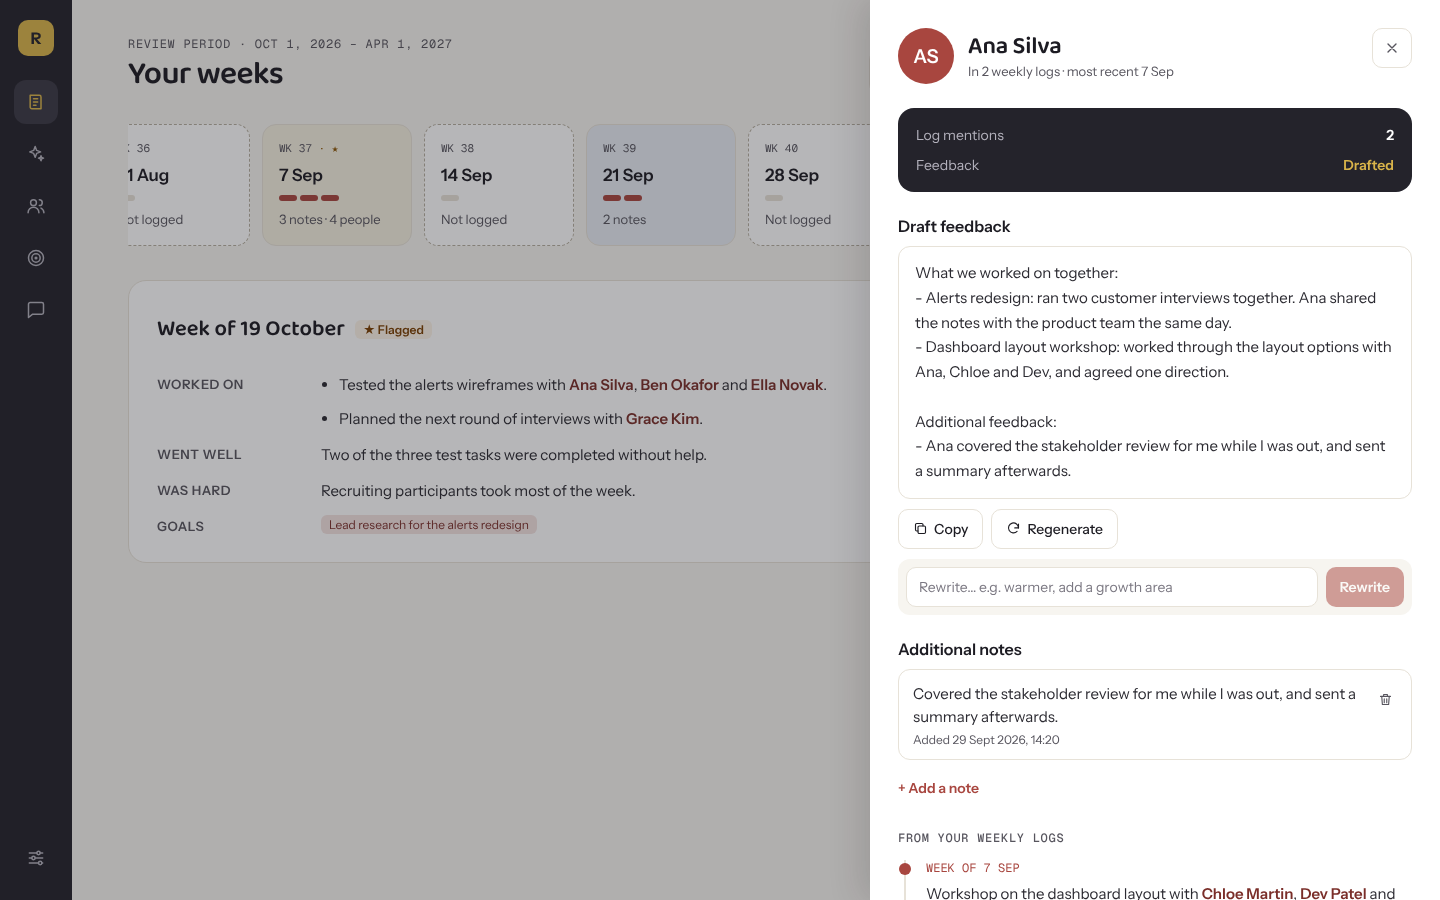
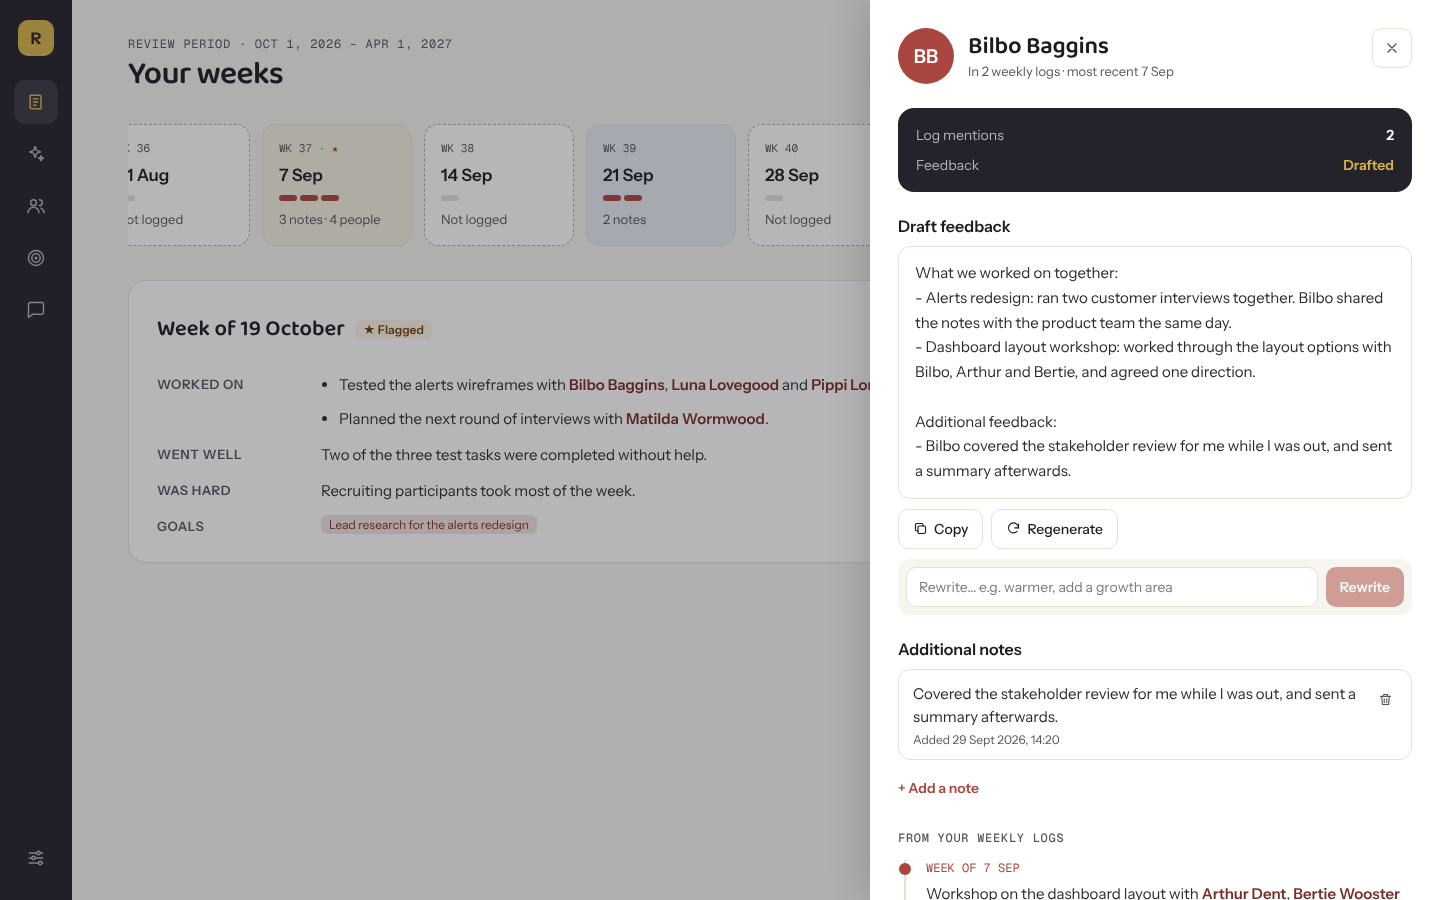
Update README screenshots with new names, add Managing, drop the update section
Retakes the Weekly Log, Weekly Log drawer, Peer Feedback and
Self-Reflection screenshots with book-character names, adds a Managing
screenshot, and removes the 'Updating an existing copy' section.

Claude-Session: https://claude.ai/code/session_01QrexS7aULGusdjfUypBWz2

diff --git a/README.md b/README.md
@@ -28,7 +28,7 @@ Click a name under **People in week N** to open their feedback panel over the pa
 ![Peer Feedback list of seven colleagues with one open in a side panel showing a draft, a saved note and the log entries that mention them](docs/screenshots/peer-feedback.png)
 
 <details>
-<summary>More screenshots: Self-Reflection, Goals, Manager Feedback and login</summary>
+<summary>More screenshots: Self-Reflection, Goals, Manager Feedback, Managing and login</summary>
 
 **Self-Reflection**: a draft in four sections, each a list of what your log says. Pick a section to edit or rewrite it on its own.
 
@@ -41,6 +41,10 @@ Click a name under **People in week N** to open their feedback panel over the pa
 **Manager Feedback**: paste or upload your manager's feedback for each review period, and suggest goals from it.
 
 ![Manager Feedback page with a saved review period open and the button to suggest goals from it](docs/screenshots/manager-feedback.png)
+
+**Managing**: for people who report to you (turn it on in **Settings**). Log wins, things to improve, feedback you gave and what others said, filter by type, and draft or view a review summary.
+
+![Managing page with five reportees listed on the left and one open, showing the add-note box, filter chips with counts and their notes, newest first](docs/screenshots/managing.png)
 
 **Login**: sign in with the email and password you create in Supabase.
 
@@ -167,90 +171,6 @@ These buttons use Claude, and each click is a charge to your Anthropic account:
 | Self-Reflection | **Build draft** / **Build new draft** and **Rewrite** |
 | Peer Feedback | **Draft for all**, and in a colleague's panel **Draft feedback**, **Regenerate** and **Rewrite** |
 | Goals | **Suggest goals** |
-
-## Updating an existing copy
-
-Peer feedback drafts are no longer saved. Earlier versions saved them in the `drafts` table. To remove those, run this in the Supabase **SQL Editor**:
-
-```sql
-delete from drafts where type = 'peer_feedback';
-```
-
-If you set up your copy when the key was called `VITE_SUPABASE_ANON_KEY`, it keeps working: the app falls back to that name when `VITE_SUPABASE_PUBLISHABLE_KEY` isn't set.
-
-If you set up the database before Peer Feedback had saved notes, run this once in the Supabase **SQL Editor** to add the table they're stored in:
-
-```sql
-create table colleague_notes (
-  id uuid primary key default gen_random_uuid(),
-  user_id uuid not null default auth.uid() references auth.users on delete cascade,
-  colleague_id uuid not null references colleagues(id) on delete cascade,
-  content text not null,
-  created_at timestamptz default now()
-);
-create index colleague_notes_colleague_idx on colleague_notes (colleague_id);
-alter table colleague_notes enable row level security;
-create policy "own rows" on colleague_notes for all to authenticated using (auth.uid() = user_id) with check (auth.uid() = user_id);
-```
-
-Until you do, Peer Feedback shows "Couldn't load notes" in a colleague's panel.
-
-If you set up the database before the Managing tab, run this once in the Supabase **SQL Editor** to add the tables for your reportees and their notes:
-
-```sql
-create table reportees (
-  id uuid primary key default gen_random_uuid(),
-  user_id uuid not null default auth.uid() references auth.users on delete cascade,
-  name text not null,
-  role text,
-  joined_on date,
-  created_at timestamptz default now()
-);
-create table reportee_notes (
-  id uuid primary key default gen_random_uuid(),
-  user_id uuid not null default auth.uid() references auth.users on delete cascade,
-  reportee_id uuid not null references reportees(id) on delete cascade,
-  type text not null,
-  content text not null,
-  said_by text[] default '{}',
-  created_at timestamptz default now()
-);
-create index reportee_notes_reportee_idx on reportee_notes (reportee_id);
-alter table reportees enable row level security;
-alter table reportee_notes enable row level security;
-create policy "own rows" on reportees for all to authenticated using (auth.uid() = user_id) with check (auth.uid() = user_id);
-create policy "own rows" on reportee_notes for all to authenticated using (auth.uid() = user_id) with check (auth.uid() = user_id);
-```
-
-Until you do, Managing shows "Couldn't load your team".
-
-If you added those tables before reportees had a joining date, run this once to add it:
-
-```sql
-alter table reportees add column joined_on date;
-```
-
-Until you do, adding or editing a reportee fails.
-
-If you set up the database before review summaries were saved, run this once to add the table they're stored in:
-
-```sql
-create table review_summaries (
-  id uuid primary key default gen_random_uuid(),
-  user_id uuid not null default auth.uid() references auth.users on delete cascade,
-  reportee_id uuid not null references reportees(id) on delete cascade,
-  period_start date not null,
-  period_end date not null,
-  content text not null,
-  created_at timestamptz default now(),
-  updated_at timestamptz,
-  unique (reportee_id, period_start)
-);
-alter table review_summaries enable row level security;
-create policy "own rows" on review_summaries for all to authenticated using (auth.uid() = user_id) with check (auth.uid() = user_id);
-```
-
-Until you do, Managing shows "Couldn't load saved summaries", and new summaries are shown but not saved.
 
 ## Adding colleagues
 
